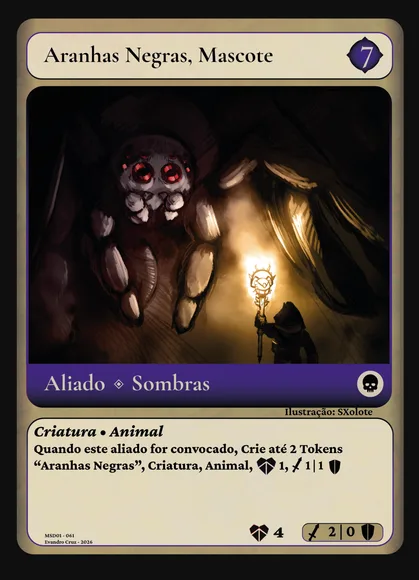
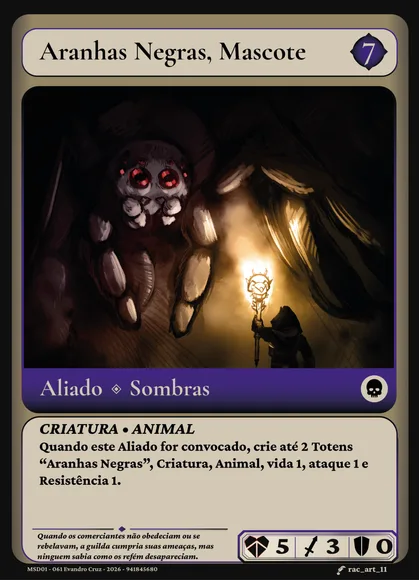
feat: update ally stats and effects for improved gameplay balance and clarity

Changed region(s): [[0.031, 0.0, 0.9928, 0.9931], [0.1241, 0.2793, 0.1551, 0.3414]]

diff --git a/server/src/rooms/match/matchEngine.ts b/server/src/rooms/match/matchEngine.ts
@@ -50,7 +50,7 @@ function getCombatAttackValue(state: MatchState, slot: Slot, attackerId: string,
 		attackValue += getFieldDamageBonusFromVital(me, attackerPos);
 	}
 	if (!isLeaderAttacker && String(attackerDef?.effect || "") === "kornex_buff_per_marcial_in_play") {
-		attackValue += countMarcialCardsInPlay(state, slot, attackerPos);
+		attackValue += countOtherMarcialCardsInPlay(state, slot, attackerPos);
 	}
 	if (hasMarcialEnvAttackBonus(state, slot, attackerId)) attackValue += 1;
 	attackValue += getAttachedSupportCounter(me, "draw_bonus", isLeaderAttacker ? null : attackerPos);
@@ -58,15 +58,15 @@ function getCombatAttackValue(state: MatchState, slot: Slot, attackerId: string,
 	return attackValue;
 }
 
-function countMarcialCardsInPlay(state: MatchState, excludedSlot: Slot, excludedFieldPos: number): number {
+function countOtherMarcialCardsInPlay(state: MatchState, excludedSlot: Slot, excludedFieldPos: number): number {
 	let marcialCount = 0;
 	for (const currentSlot of [excludedSlot, enemySlot(excludedSlot)] as Slot[]) {
 		const player = asPlayer(state, currentSlot);
 		const leaderId = String(player.leaderId || "");
 		if (leaderId && cardHasFiliation(leaderId, "Marcial")) marcialCount += 1;
 		for (let index = 0; index < player.field.length; index += 1) {
-			if (currentSlot === excludedSlot && index === excludedFieldPos) continue;
 			const cardId = String(player.field[index] || "");
+			if (currentSlot === excludedSlot && index === excludedFieldPos) continue;
 			if (cardId && cardHasFiliation(cardId, "Marcial")) marcialCount += 1;
 		}
 		for (let index = 0; index < player.support.length; index += 1) {
@@ -1378,13 +1378,14 @@ function triggerAutoEffects(
 			if (!optionId) return;
 			const pick = options.find((o) => o.id === optionId);
 			if (!pick || typeof pick.pos !== "number") return;
-			(foe as any).fieldAtkTemp[pick.pos] = Number((foe as any).fieldAtkTemp[pick.pos] || 0) - 1;
+			const attackPenalty = Math.max(1, Number((findCardDef(cardId) as any)?.effectValue || 3));
+			(foe as any).fieldAtkTemp[pick.pos] = Number((foe as any).fieldAtkTemp[pick.pos] || 0) - attackPenalty;
 			const hasAranhas = Array.from({ length: me.field.length }, (_, i) => String(me.field[i] || "")).some((name) => normalizeKind(name).replace(/[^a-z0-9]+/g, "").includes("aranhasnegras"));
 			if (hasAranhas) {
 				drawCard(state, slot, 1, broadcast);
 				if (state.phase === "FINISHED") return;
 			}
-			broadcast("effect_log", { slot, cardId, effect, text: `${cardId}: aplicou -1 de ATK temporário em ${String(foe.field[pick.pos] || "inimigo")}.` });
+			broadcast("effect_log", { slot, cardId, effect, text: `${cardId}: aplicou -${attackPenalty} de ATK temporário em ${String(foe.field[pick.pos] || "inimigo")}.` });
 		});
 		return;
 	}
@@ -3392,7 +3393,7 @@ export function attack(
 			attackValue += getFieldDamageBonusFromVital(me as any, attackerPos);
 		}
 		if (!isLeaderAttacker && String(attackerDef?.effect || "") === "kornex_buff_per_marcial_in_play") {
-			attackValue += countMarcialCardsInPlay(state, slot, attackerPos);
+			attackValue += countOtherMarcialCardsInPlay(state, slot, attackerPos);
 		}
 		if (hasMarcialEnvAttackBonus(state, slot, attackerId)) attackValue += 1;
 		attackValue += getAttachedSupportCounter(me as any, "draw_bonus", isLeaderAttacker ? null : attackerPos);
@@ -3496,8 +3497,9 @@ export function attack(
 			const emboscadaCardId = String(enemy.hand[emboscadaIndex] || "");
 			const emboscadaCost = getCardCost(emboscadaCardId);
 			if (emboscadaCardId && Number(enemy.fragments || 0) >= emboscadaCost) {
+				const emboscadaPenalty = Math.max(1, Number((findCardDef(emboscadaCardId) as any)?.effectValue || 3));
 				const options: ChoiceOption[] = [
-					{ id: "emboscada-yes", label: `Ativar ${emboscadaCardId}`, description: `Pagar ${emboscadaCost} fragmento(s) para dar -1 ATK ao atacante.` },
+					{ id: "emboscada-yes", label: `Ativar ${emboscadaCardId}`, description: `Pagar ${emboscadaCost} fragmento(s) para dar -${emboscadaPenalty} ATK ao atacante.` },
 					{ id: "emboscada-no", label: "Não ativar" }
 				];
 				askChoice(enemySlot, {
@@ -3520,10 +3522,10 @@ export function attack(
 							enemy.hand.splice(liveEmboscadaIndex, 1);
 							enemy.grave.push(emboscadaCardId);
 							maybeOfferCounterToActivation(state, enemySlot, emboscadaCardId, broadcast, askChoice, () => {
-								reactiveAttackPenalty -= 1;
+								reactiveAttackPenalty -= emboscadaPenalty;
 								const hasAranhas = Array.from({ length: enemy.field.length }, (_, index) => String(enemy.field[index] || "")).some((cid) => normalizeLoose(String(findCardDef(cid)?.name || cid || "")).includes("aranhasnegras"));
 								if (hasAranhas) drawCard(state, enemySlot, 1, broadcast);
-								broadcast("effect_log", { slot: enemySlot, cardId: emboscadaCardId, effect: "aranhas_emboscada", text: `${emboscadaCardId}: aplicou -1 ATK em ${attackerId}${hasAranhas ? " e comprou 1 carta" : ""}.` });
+								broadcast("effect_log", { slot: enemySlot, cardId: emboscadaCardId, effect: "aranhas_emboscada", text: `${emboscadaCardId}: aplicou -${emboscadaPenalty} ATK em ${attackerId}${hasAranhas ? " e comprou 1 carta" : ""}.` });
 								continueDeclaredAttack();
 							}, () => continueDeclaredAttack());
 							return;

diff --git a/client/public/cards/cartas.js b/client/public/cards/cartas.js
@@ -89,7 +89,7 @@ const CARD_DEFS = [
     name: 'Cidadãos Unidos', key: 'token_povo', kind: 'ally', img: '/tokens/layout-cidadaotoken.ai.png', cost: 0, classe: 'Cidadão', tipo: 'Humano', filiacao: 'Arcana', ac: 1, hp: 1, maxHp: 1, damage: 1, atkBonus: 1, keywords: [], text: 'Ficha de cidadão criada por Ajuda do Povo.'
   },
 	{
-    name: 'Aranhas Negras, Mascote', kind: 'ally', img: '/allies/layout-aranhasmascote.ai.png', cost: 7, classe: 'Criatura', tipo: 'Animal', filiacao: 'Sombras', ac: 0, hp: 4, maxHp: 4, damage: 2, atkBonus: 2, keywords: [], effect: 'aranhas_mascote', text: 'Quando este aliado for convocado, Crie até 2 Tokens "Aranhas Negras", Criatura, Animal, 1 de vida, 1 de dano e 1 de Resistência.'
+    name: 'Aranhas Negras, Mascote', kind: 'ally', img: '/allies/layout-aranhasmascote.ai.png', cost: 7, classe: 'Criatura', tipo: 'Animal', filiacao: 'Sombras', ac: 0, hp: 5, maxHp: 5, damage: 3, atkBonus: 3, keywords: [], effect: 'aranhas_mascote', text: 'Quando este aliado for convocado, Crie até 2 Tokens "Aranhas Negras", Criatura, Animal, 1 de vida, 1 de dano e 1 de Resistência.'
   },
   {
     name: 'Gladiador Aposentado', kind: 'ally', img: '/allies/layout-gladiadoraposentado.ai.png', cost: 7, classe: 'Cidadão', tipo: 'Humano', filiacao: 'Neutra', ac: 2, hp: 8, maxHp: 8, damage: 6, atkBonus: 6, keywords: [], text: ''
@@ -236,7 +236,8 @@ name: 'Tamanduá Guardião', kind: 'ally', img: '/allies/layout-tamanduaguardiao
       tipo: 'Truque',
       filiacao: 'Sombras',
       effect: 'aranhas_emboscada',
-      text: 'Quando um oponente declarar um ataque: o personagem atacante perde 1 de Ataque até o final daquele embate. Se você controlar um aliado com "Aranhas Negras" no nome, compre 1 carta.'
+      effectValue: 3,
+      text: 'Quando um oponente declarar um ataque: O personagem atacante perde 3 de Ataque até o final daquele embate. Se você controlar um aliado com "Aranhas Negras" no nome, compre 1 carta.'
     },
   {
     name: 'Interrupção Perfeita', kind: 'truque', img: '/trick/layout-interrupcaoperfeita.ai.png', cost: 2, classe: '', tipo: 'Truque', filiacao: 'Arcana', effect: 'anular_magia_truque', text: 'Quando o oponente ativa uma magia ou truque, anule o efeito.'

diff --git a/client/src/pages/game.ts b/client/src/pages/game.ts
@@ -776,13 +776,13 @@ function getAuraHpBonusForSide(side: BattleSide, cardId: string): number {
 	return total;
 }
 
-function countMarcialCardsInBattle(excludedSide?: BattleSide, excludedIndex?: number): number {
+function countOtherMarcialCardsInBattle(excludedSide?: BattleSide, excludedIndex?: number): number {
 	let total = 0;
 	for (const cardId of [currentMyLeader, currentEnemyLeader]) if (cardId && cardHasFiliation(cardId, "Marcial")) total += 1;
-	for (const [side, source] of [["you", currentMyField], ["enemy", currentEnemyField]] as Array<[BattleSide, string[]]>) {
+	for (const [side, source] of [["you", currentMyField], ["ai", currentEnemyField]] as Array<[BattleSide, string[]]>) {
 		for (let index = 0; index < source.length; index += 1) {
-			if (side === excludedSide && index === excludedIndex) continue;
 			const cardId = source[index];
+			if (side === excludedSide && index === excludedIndex) continue;
 			if (cardId && cardHasFiliation(cardId, "Marcial")) total += 1;
 		}
 	}
@@ -803,7 +803,7 @@ function isYohanCard(cardId: string): boolean {
 
 function getMarcialBattleBonus(cardId: string, side?: BattleSide, index?: number): number {
 	if (!isYohanCard(cardId)) return 0;
-	return Math.max(0, countMarcialCardsInBattle(side, index));
+	return Math.max(0, countOtherMarcialCardsInBattle(side, index));
 }
 
 function isMarcialBonusEnvCard(cardId: string | null | undefined): boolean {
